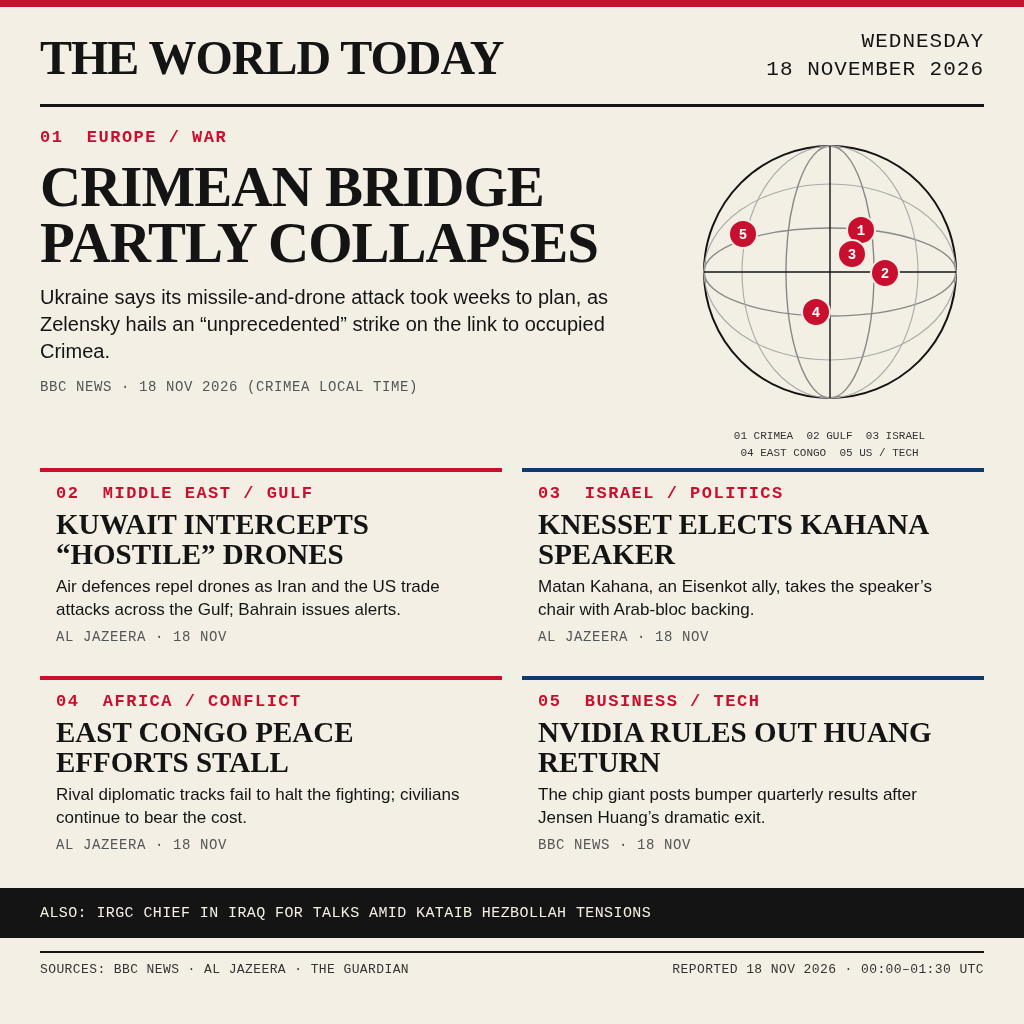
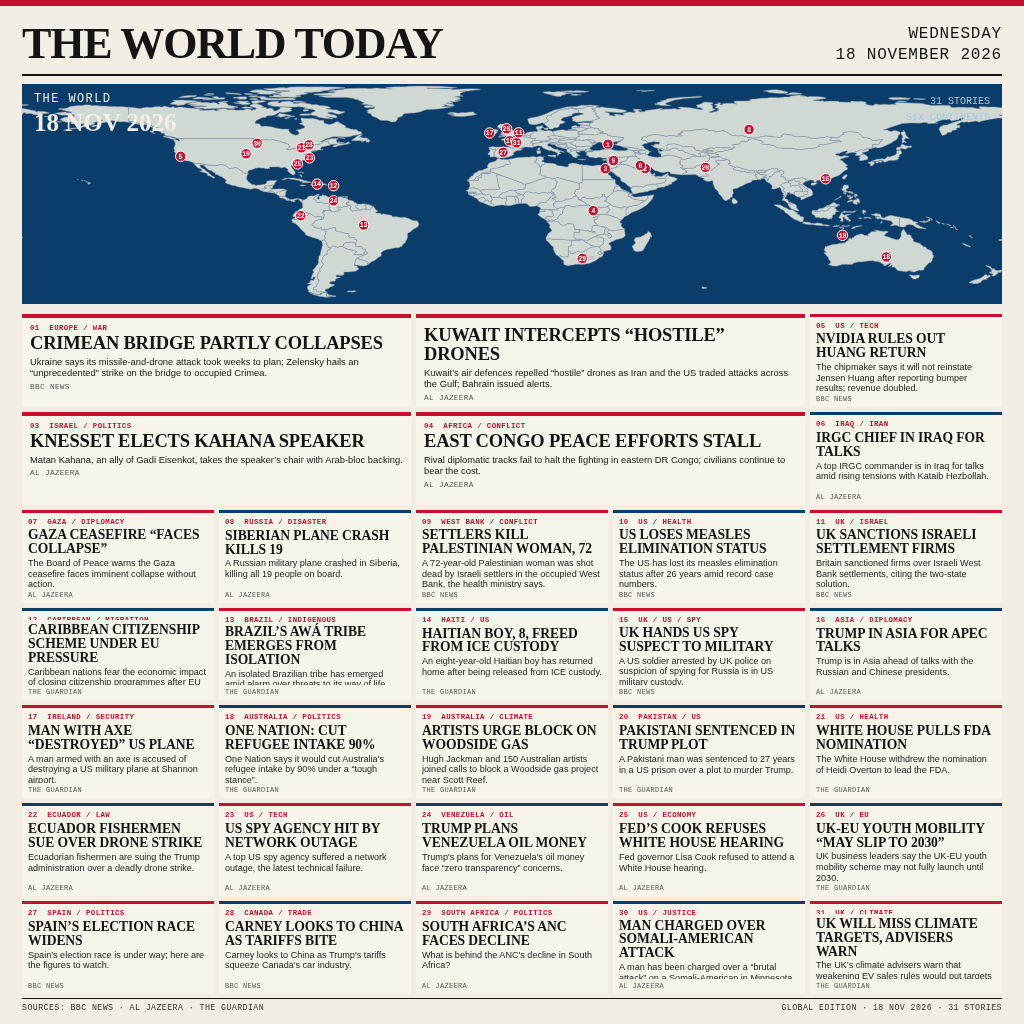
Expand front page to 31 stories with world map

diff --git a/README.md b/README.md
@@ -1,6 +1,6 @@
 # news-image-20261118
 
-An entry for the make.fun [news-image-20261118](https://make.fun/bounty/news-image-20261118) bounty: a 1024x1024 front page of the world news reported between 00:00 and 01:30 UTC on 18 November 2026.
+An entry for the make.fun [news-image-20261118](https://make.fun/bounty/news-image-20261118) bounty: a 1024x1024 front page of world news reported on 18 November 2026.
 
 [![make.fun entry](https://make.fun/badge/news-image-20261118.svg)](https://make.fun/bounty/news-image-20261118)
 [![make.fun rank](https://make.fun/badge/news-image-20261118/duchuAz/makefun-news-image-20261118/rank.svg)](https://make.fun/bounty/news-image-20261118)
@@ -33,7 +33,7 @@ sha256sum out/entry.png entry.png
 
 ## Layout
 
-- `entry.png` — the finished image (1024x1024, 172,561 bytes)
+- `entry.png` — the finished image (1024x1024, 317,765 bytes)
 - `main.ts` — the program described above
 - `.makefun/owner.json` — the claim file naming the entry's wallet
 - `LICENSE` — MIT
